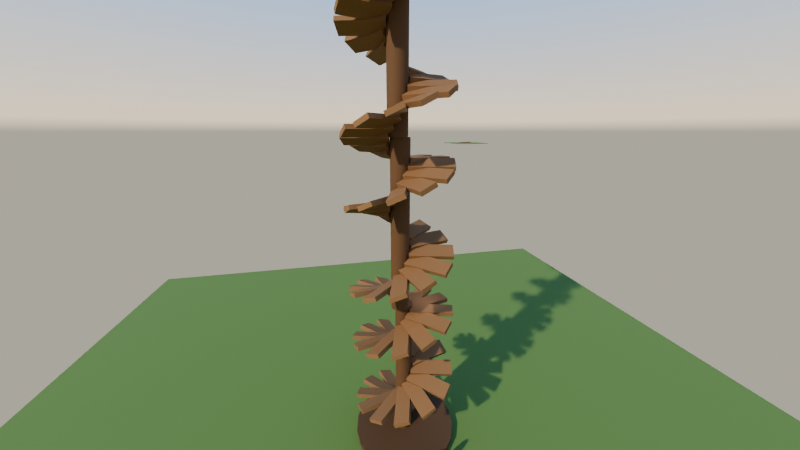
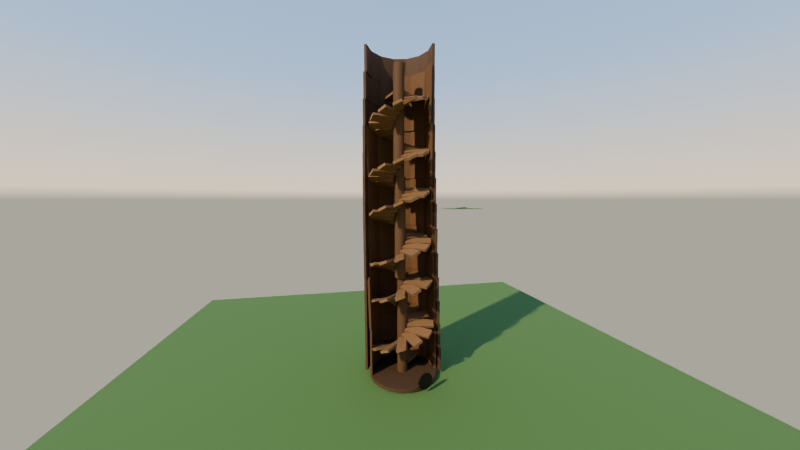
Hollow trees: the lights inside reach no further than the bark (range 1.5-4.9 instead of 9, brightness raised in proportion; the floor's light half way up its chamber, the spiral's off its post), so nothing outside is lit through the bark at night; spec over every light's reach; cut-away renders tha
Claude-Session: https://claude.ai/code/session_01M7kvU21XVNfCAcdQZ7o6vh

diff --git a/docs/owner/HOLLOW_TREES_CHECK.md b/docs/owner/HOLLOW_TREES_CHECK.md
@@ -2,7 +2,7 @@
 
 Your brief (section 3) asks for twelve hollow trees a squirrel can claim, and a fallen hollow log to hide in. Addendum D6 says they run "on the same mechanics" as the ball return. They do: every hollow's inside is an enclosed squirrel run, exactly like the ball return and the storm drains.
 
-Everything below was tested without a screen, on the real squirrel controls and the real server checks. A test cannot tell me how it looks and feels, so this list is the part only you can judge. The pictures are offline renders in `docs/renders/hollows/` (remake them with `lune run tools/review/hollows.luau` and `tools/review/render.py`). The bark in them is a plain stand-in, because the Blender trees cannot be drawn offline. `h1_cutaway` shows the spiral with its walls left out.
+Everything below was tested without a screen, on the real squirrel controls and the real server checks. A test cannot tell me how it looks and feels, so this list is the part only you can judge. The pictures are offline renders in `docs/renders/hollows/` (remake them with `lune run tools/review/hollows.luau` and `tools/review/render.py`). The bark in them is a plain stand-in, because the Blender trees cannot be drawn offline. The `_cutaway` pictures cut the bark and the boards away on the camera's side, so you see the inside against the far wall: `h1_cutaway` the whole spiral, `h2_cutaway` and `h12_cutaway` the two climbing trees, each with a `_low` and `_top` close-up, and `log_cutaway` the log.
 
 ## Where they are
 
@@ -35,18 +35,19 @@ Everything below was tested without a screen, on the real squirrel controls and 
 ## What only you can judge
 - **H1 is in the HIGHLAND ELM giant, not the park tree by the Tabasco garden.** The park tree's trunk is 4 studs across and the squirrel is 1.6 wide, so no ramp fits inside it. The giant is 9.4 across. H1's premium garden and bird feeder are listed beside the giant but are not built, the same as H2's. *Default: the giant, as built.*
 - **The ground holes are big** (1.9 by 2 studs), because the squirrel's body has to fit through them. Do they look right on the bark?
-- **Inside, the walls are plain wooden boards** (rings of planks, a floor and a roof, with one dim warm light per chamber). The Blender bark is not drawn from inside, so these boards are what you see. Offline, the spiral reads very dark between its landings (`h1_ramp` views). Only the engine can say how dark it really is. Are the boards good enough, or should the insides get art of their own?
+- **Inside, the walls are plain wooden boards** (rings of planks, a floor and a roof, with one dim warm light per chamber; each light only reaches as far as the bark, so it never lights the lawn outside at night).
+- **The log has an invisible stop just inside each end.** A squirrel that walks at the end from the side stays outside; one that runs straight in is taken through as before. The Blender bark is not drawn from inside, so these boards are what you see. Offline, the spiral reads very dark between its landings (`h1_ramp` views). Only the engine can say how dark it really is. Are the boards good enough, or should the insides get art of their own?
 - **Moved trees:** H4 is now the Pump Elm and H9 Estate Oak South 2. In the baked town, Estate Oak South 1 stands inside the estate mansion's walls, and both Shop Oaks stand in the sidewalk curbs.
 - **The log** is the north park's hollow log from v5.4, now real: about 3.6 studs across and 23 long. The old grey box at that spot is now invisible.
 - **How fast should a tree's meter empty?** It loses 3 % of its capacity each game day, and a game day is 12 real minutes. So a full tree that nobody feeds falls below the 60 % keep line after about 13 game days (2 hours 40 minutes), and an owner who claimed at 75 % must bring nuts within 5 game days (1 hour). Is that the pace you want? *Default: 3 % a game day.*
 
 ## Costs (for phones)
-- **377 plain parts in all**, about 7,000 triangles, no shadows, and 17 dim point lights (no shadows): one on each floor, and one at each landing or store above it:
-  - H1: 147 parts;
-  - H2: 58;
+- **372 plain parts in all**, about 7,000 triangles, no shadows, and 17 dim point lights (no shadows): one on each floor, and one at each landing or store above it. Each light reaches 1.5 to 4.9 studs, no further than the bark round it:
+  - H1: 143 parts;
+  - H2: 57;
   - H12: 50;
-  - each one-chamber tree: 9 to 15;
-  - the log: 11;
+  - each one-chamber tree: 9 to 14;
+  - the log: 13 (its boards, its floor and its two invisible end stops);
   - one pennant per claimable tree.
 - **The trees themselves are unchanged.** No mesh was re-uploaded.
 - **Per frame:** the hiding check is one cylinder test per hollow for each squirrel. The meters update once a second.
